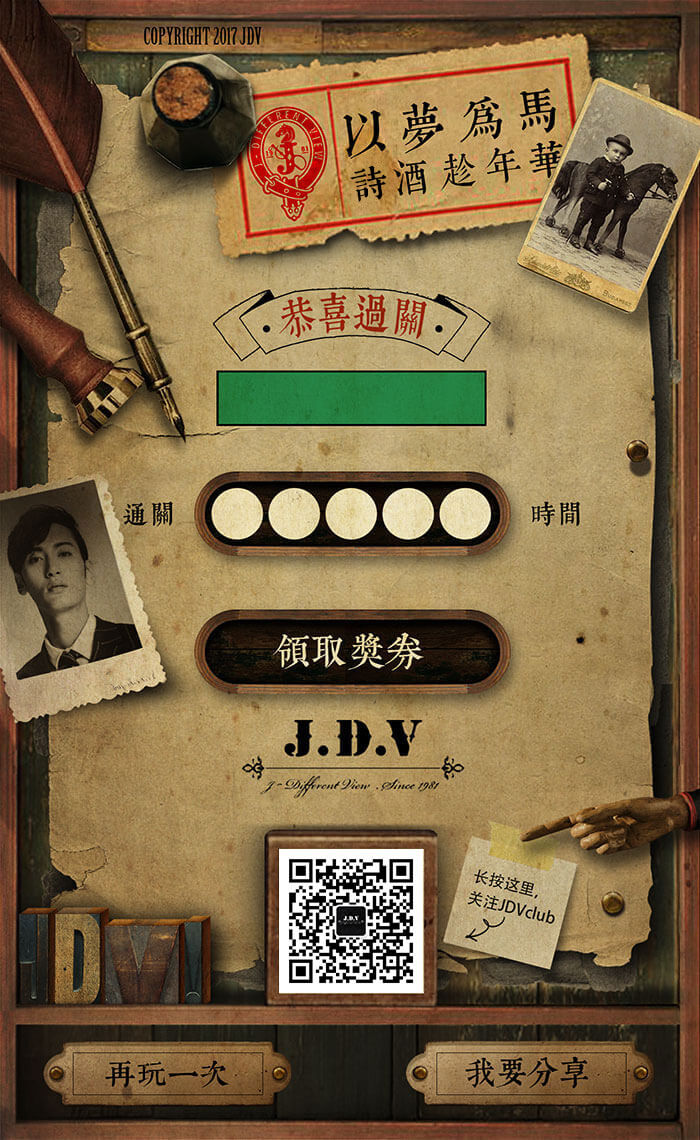
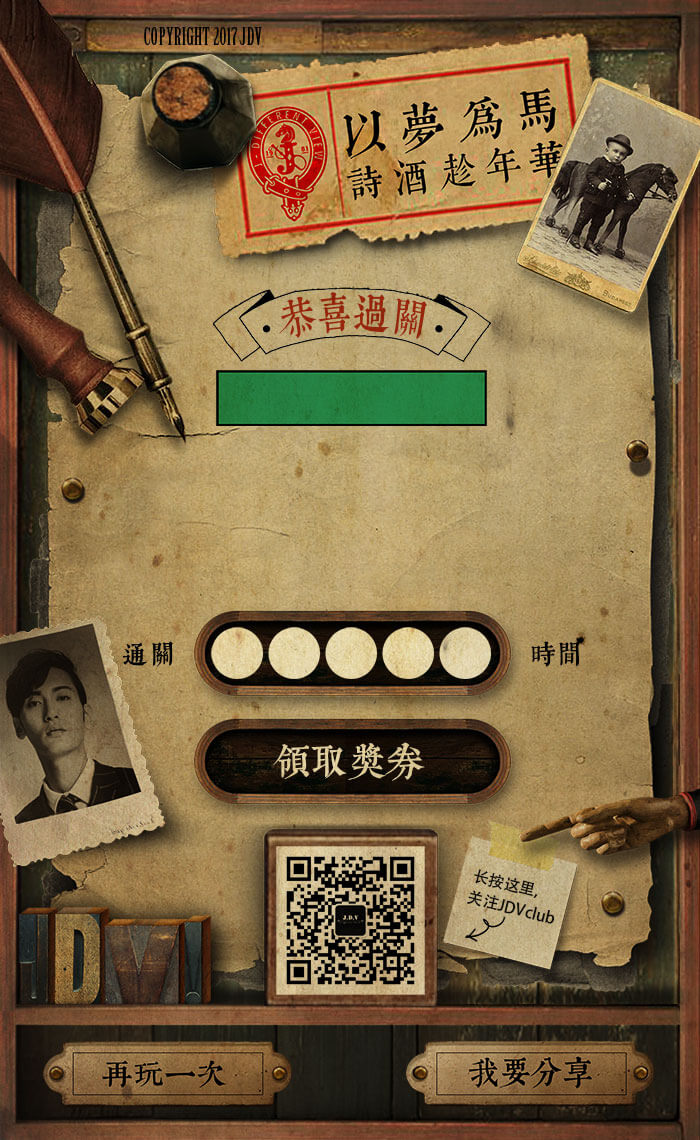
2017-12-29

diff --git a/src/css/ticket.css b/src/css/ticket.css
@@ -22,9 +22,9 @@
 
 #Index .word{
     position: absolute; top: 433px; left: 180px;
-    width: 342px; height: 32px; line-height: 32px;
+    width: 355px; height: 32px; line-height: 32px;
     text-align: center;
-    font-size: 17px;
+    font-size: 19px;
 }
 
 #Index .time{
@@ -35,13 +35,13 @@
 }
 
 #Index .tt{
-    position: absolute; top: 486px;
+    position: absolute; top: 625px;
     width: 55px; height: 55px; line-height: 55px;
     text-align: center; font-size: 35px;
 }
 
 #Index .getTicket{
-    position: absolute; top: 621px; left: 217px;
+    position: absolute; top: 726px; left: 217px;
     width: 269px; height: 58px;
 }
 #Index .play{
@@ -55,7 +55,7 @@
 
 #Index .t1{ left: 209px;}
 #Index .t2{ left: 266px;}
-#Index .tx{ top: 483px; left: 323px;}
+#Index .tx{ top: 622px; left: 323px;}
 #Index .t3{ left: 381px;}
 #Index .t4{ left: 438px;}
 
@@ -90,4 +90,29 @@
 
 #Index .ticket_json{
     display: none;
+}
+
+#Index .w1{
+    position: absolute; top: 505px; left: 102px;
+    width: 501px; height: 54px;
+}
+
+#Index .w2{
+    position: absolute; top: 502px; left: 72px;
+    width: 554px; height: 58px;
+}
+
+#Index .wc1{
+    position: absolute; top: 486px; left: 194px;
+    width: 314px; height: 103px;
+}
+
+#Index .wc2{
+    position: absolute; top: 485px; left: 135px;
+    width: 426px; height: 103px;
+}
+
+#Index .w3{
+    position: absolute; top: 504px; left: 102px;
+    width: 501px; height: 56px;
 }

diff --git a/src/js/game4.js b/src/js/game4.js
@@ -26,7 +26,7 @@ Room.Game4.dom = function(){
         //setCookie("JDVGameTime", 9545);
 
         if(Dom.X_go==3)
-            window.location.href = "http://wx.cdh5.cn/50464/index.php?gametime=195450";
+            window.location.href = "http://wx.cdh5.cn/50464/index.php?gametime="+(60*10*1000+1000);
     })
 };
 Room.Game4.ppt = function(){

diff --git a/showticket.php b/showticket.php
@@ -11,6 +11,24 @@ $t2 = substr($times, 1, 1);
 $t3 = substr($times, 3, 1);
 $t4 = substr($times, 4, 1);
 
+$w1 = "none";
+$w2 = "none";
+$wc1 = "none";
+$wc2 = "none";
+$w3 = "none";
+
+if($timet<=60*3 && $timet>0){
+    $w1 = "block";
+}elseif($timet>60*3 && $timet<=60*5){
+    $w2 = "block";
+}elseif($timet>60*5 && $timet<=60*7){
+    $wc1 = "block";
+}elseif($timet>60*7 && $timet<=60*9){
+    $wc2 = "block";
+}else{
+    $w3 = "block";
+}
+
 
 if($timet<=60 && $timet>0){
     $x = rand(0, 4);
@@ -34,6 +52,8 @@ if($timet<=60 && $timet>0){
     $x = rand(-10, 10);
     $score = 35 + $x;
 }
+
+
 
 if(!$openid || !$unionid){
     die("Sorry! openid and unionid is error!");
@@ -211,6 +231,12 @@ function curl_post($url, $data){
             <div class="tt tx">:</div>
             <div class="tt t3"><?php echo $t3?></div>
             <div class="tt t4"><?php echo $t4?></div>
+
+            <div class="w1" style="display: <?php echo $w3?>" ><img src="img/ticket/w1.png" alt=""></div>
+            <div class="w2" style="display: <?php echo $w2?>"><img src="img/ticket/w2.png" alt=""></div>
+            <div class="w3" style="display: <?php echo $w1?>"><img src="img/ticket/w3.png" alt=""></div>
+            <div class="wc1" style="display: <?php echo $wc1?>"><img src="img/ticket/wc1.png" alt=""></div>
+            <div class="wc2" style="display: <?php echo $wc2?>"><img src="img/ticket/wc2.png" alt=""></div>
 
             <div class="getTicket"></div>
             <div class="play"></div>
